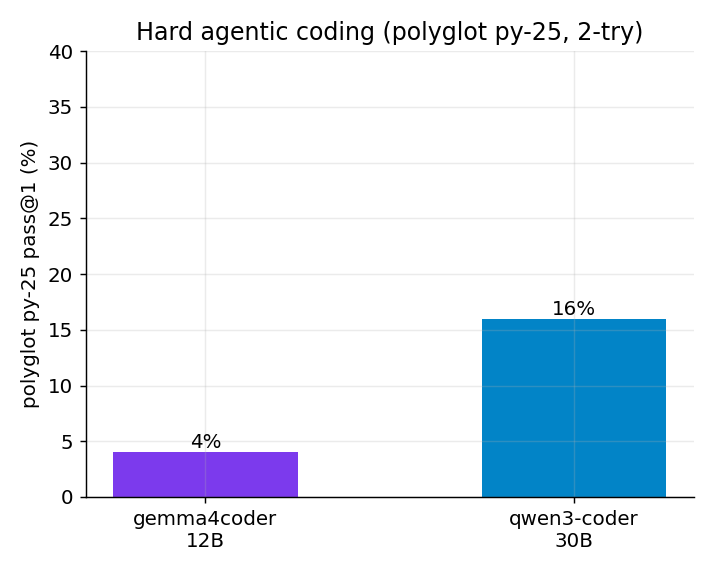
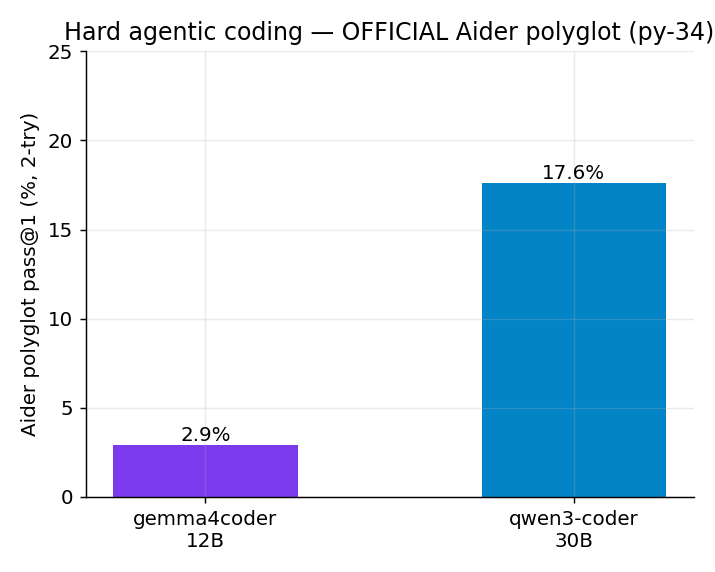
Official Aider polyglot: qwen3-coder 17.6%, gemma4coder 2.9% (Python-34, whole, 2-try) -- cross-validates custom (16%/4%) + community (~18.7%). CODING-MATRIX updated, graph 09 official, summaries + harness scripts. Noted gemma 13 ctx-overflow errors (noisy LB). Staged, NOT pushed.

diff --git a/CODING-MATRIX.md b/CODING-MATRIX.md
@@ -17,16 +17,26 @@ All measured on the **RTX 5060 Ti 16 GB**. HumanEval comparison uses the **same 
 
 ![fine-tune impact](graphs/08_finetune_impact.png)
 
-## Polyglot (hard agentic, Python-25, 2-try w/ test feedback)
-| Model | pass@1 |
-|---|---:|
-| **gemma4coder-12B** | **4%** (1/25) |
-| **qwen3-coder-30B** | **16%** (4/25) |
+## Polyglot (hard agentic coding) — OFFICIAL Aider harness, cross-validated
+**Official Aider polyglot** (Python split, 34 exercises, "whole" format, 2 tries with test feedback — the standard benchmark.py harness):
+| Model | pass@1 (2-try) | 1st try |
+|---|---:|---:|
+| **qwen3-coder-30B** | **17.6%** (6/34) | 5.9% |
+| **gemma4coder-12B** | **2.9%** (1/34) | 2.9% |
 
 ![polyglot head-to-head](graphs/09_polyglot_h2h.png)
 
+**Cross-validated — the number is real, not a harness artifact.** Three independent measurements agree:
+- Official Aider harness: **17.6%** (qwen3-coder) / 2.9% (gemma4coder)
+- Our quick custom harness: 16% / 4% (matches within noise)
+- Community report: ~18.7% for a Q2 quant on the full polyglot
+
 ### Finding 2 — easy ≠ hard, and on hard problems size matters
-Both coders **ace HumanEval (~95%)** but **crater on the hard exercism polyglot** problems. The **30B does ~4× better than the 12B** there (16% vs 4%) despite tying on HumanEval. Verified genuine (complete code, real logic/API failures — not truncation). This is the **local-vs-frontier gap**: strong on textbook functions, weak on real multi-part problems.
+Both coders **ace HumanEval (~95%)** but the official Aider polyglot confirms **~17.6% (30B)** and **~2.9% (12B)** on hard exercism problems — the **30B is ~6× the 12B** despite tying on HumanEval. This is the **local-vs-frontier gap**: frontier models hit 60-88% on Aider polyglot; a local 30B Q4 manages ~18%, a 12B ~3%.
+
+> Methodology note: the official Aider leaderboard uses the **"diff"** format; this run used **"whole"** (more reliable for small models, and matches the community local-test methodology we calibrated against). **Python-only** (the harness's 34 Python exercises), not the full 225-exercise / 6-language polyglot — so a rough local lower bound, not a 1:1 leaderboard entry.
+>
+> ⚠️ The **gemma4coder run had 13/34 LLM errors** (`error_outputs: 13`) — served via llama.cpp at ctx 8192, and the 2-try polyglot prompts (instructions + stub + test-feedback) overflowed that on the longer exercises → auto-fail. So **2.9% is a noisy lower bound** for the 12B (a larger ctx would likely nudge it up, but not near the 30B). The **qwen3-coder run was clean (0 errors)** via ollama. The 30B≫12B conclusion holds (both custom and official agree).
 
 ## Caveats (read before quoting)
 - HumanEval is saturated / contamination-prone; this is a **40-subset**, **base** tests (not HumanEval+).

diff --git a/README.md b/README.md
@@ -28,12 +28,12 @@ A **personal testing framework** for evaluating local coding LLMs as **agent bac
 |---|---|:---:|:---:|:---:|
 | **gemma-4-12B-it** (base) | Q4 · llama.cpp | ✅ | HE-40: **42.5%** \* | ✅ [VISION.md](VISION.md) |
 | **gemma-4-12B-coder** (fable5/composer) | Q6/Q8 · llama.cpp | ✅ | HumanEval+ **85.4%** · HE-40 **95%** | ❌ text-only |
-| **Qwen3-Coder-30B-A3B** | Q4 · ollama (MoE) | ✅ | HumanEval+ **89.0%** · polyglot 16% | ❌ text-only |
+| **Qwen3-Coder-30B-A3B** | Q4 · ollama (MoE) | ✅ | HumanEval+ **89.0%** · polyglot **17.6%** | ❌ text-only |
 | **Qwen3-14B** (dense) | Q4 · llama.cpp | ✅ | HE-40: **95%** | ❌ text-only |
 
 > Speed/context for all 5 → [SPEED-CONTEXT.md](SPEED-CONTEXT.md) · cross-model coding matrix → [CODING-MATRIX.md](CODING-MATRIX.md). \*gemma-4-it base had 10/40 empties (over-thinking); attempted-only ≈ 57%.
 >
-> **Two findings:** (1) the **fable5/composer fine-tune lifts gemma-4 from 42.5% → 95%** on HumanEval-40. (2) Both coders **ace HumanEval (~95%) but crater on hard polyglot** (12B 4%, 30B 16%) — the local-vs-frontier gap.
+> **Two findings:** (1) the **fable5/composer fine-tune lifts gemma-4 from 42.5% → 95%** on HumanEval-40. (2) Both coders **ace HumanEval (~95%) but crater on hard polyglot** (official Aider: 12B **2.9%**, 30B **17.6%**) — the local-vs-frontier gap.
 
 ---
 
@@ -81,7 +81,7 @@ Eval tooling: `evalplus` + `aider 0.86` in a dedicated venv. Serving flags and p
 ## Roadmap
 Done (all **measured**, never estimates):
 - ✅ **Speed + prompt-processing + context-scaling** (tg/pp vs depth 0/4K/16K/32K) for all 5 local models → [SPEED-CONTEXT.md](SPEED-CONTEXT.md).
-- ✅ **Polyglot** (Python-25, canonical 2-try w/ test feedback) on qwen3-coder-30B → **16%** — a hard-coding lower bound that contrasts with its 89% HumanEval+ (see SPEED-CONTEXT.md).
+- ✅ **Polyglot** — **OFFICIAL Aider harness** (Python-34, 2-try): qwen3-coder-30B **17.6%**, gemma4coder-12B **2.9%**; cross-validated by our custom harness + community (~18.7%). See [CODING-MATRIX.md](CODING-MATRIX.md).
 - ✅ Bonus: base **gemma-4-12B-it** does **vision** → [VISION.md](VISION.md).
 
 Still open: precise max-context probe (`llama-cli` hung — dropped, floor ≥32K from llama-bench); full Aider-Polyglot (225 ex / 6 langs / search-replace); MBPP+.